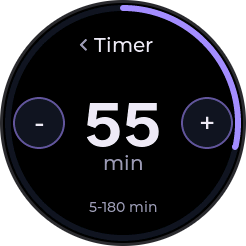
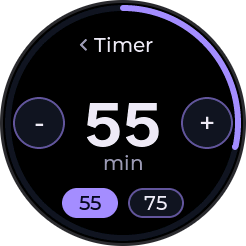
feat: timer keeps running across new games, 55/75 presets (#14)
## What and why

Two timer requests from players:

- **New game no longer resets the timer.** Competitive rounds are
best-of-three over 55 minutes, so games two and three should run on the
same clock. Reset in the Timer menu starts the next round's timer.
- **55 and 75 minute presets.** The timer length dial shows two pills,
**55** and **75**, in place of the "5-180 min" range line. Tapping one
sets that length; the matching pill is filled violet. The − / + buttons
still step by 5. Pills are built into the shared dial
(`ui_dial_t.presets`), so brightness and auto-off are unchanged.

## Checklist

- [x] The PR title is a Conventional Commit (`feat: ...`, `fix: ...`,
`docs: ...`)
- [x] `tools/test.sh` passes (unit and flash tool tests; gcovr not
installed locally, CI runs coverage)
- [x] Screenshots regenerated with `tools/screenshots.sh` (only
`timer-set.png` changed)
- [x] Tested on a device, or I explain why not below
- [x] Docs updated (README, user guide, install guide) if behavior
changed
- [x] No code, binaries or assets from the device's factory firmware

## Testing notes

- Firmware built with ESP-IDF 6.1 and flashed to our puck: timer keeps
counting through New game, preset pills set 55/75 and highlight, length
change while running behaves as before.
- The `timer-set` screenshot scene now taps both pills and checks the
length, then checks a new game leaves the timer's elapsed time
unchanged.

🤖 Generated with [Claude Code](https://claude.com/claude-code)

Changed region(s): [[0.2276, 0.7398, 0.7683, 0.9106]]

diff --git a/main/ui_dial.c b/main/ui_dial.c
@@ -2,7 +2,8 @@
 // buttons, with its title above, a unit line and range line below, and a
 // progress arc around the rim. Holding a button repeats. Tapping the title
 // (which has a back chevron) or the value, or pressing power, closes it. Used for the timer length, brightness and
-// auto-off; each supplies its own read, step and close functions.
+// auto-off; each supplies its own read, step and close functions. A dial can
+// show preset pills in place of the range line (the timer's 55 and 75).
 #include "ui_internal.h"
 
 #include "ui_theme.h"
@@ -23,6 +24,11 @@ LV_FONT_DECLARE(puck_font_dial_64)
 #define ARC_SIZE          236    // rim arc: radius 118, 6 px wide (inner edge 112)
 #define ARC_WIDTH         6
 #define ARC_SCALE         1000   // arc values are permille
+#define PRESET_DY         80     // pill row center
+#define PRESET_W          56     // two pills and the gap stay inside the arc:
+#define PRESET_H          30     //   outer end cap reaches 107 of the arc's 112
+#define PRESET_GAP        10
+#define PRESET_TOUCH_PAD  8      // extra touch area around each pill
 
 static lv_obj_t *s_panel;
 static lv_obj_t *s_value;
@@ -32,6 +38,7 @@ static lv_obj_t *s_down;
 static lv_obj_t *s_up;
 static const ui_dial_t *s_dial;
 static bool s_enabled[2];      // [0] "-", [1] "+"; false at that end of the range
+static lv_obj_t *s_presets[UI_DIAL_MAX_PRESETS];
 
 // A button at the end of its range is dimmed and ignores taps. (Not
 // LV_STATE_DISABLED: the theme's grey filter would replace this look.)
@@ -43,10 +50,21 @@ static void set_button_enabled(lv_obj_t *btn, int index, bool enabled)
     lv_obj_set_style_text_color(btn, enabled ? UI_COLOR_BONE : UI_COLOR_LINE_STRONG, 0);
 }
 
+// The pill matching the value is filled violet; the others are outlined.
+static void set_preset_selected(lv_obj_t *pill, bool selected)
+{
+    lv_obj_set_style_bg_color(pill, selected ? UI_COLOR_VIOLET : UI_COLOR_PANEL, 0);
+    lv_obj_set_style_border_color(pill, selected ? UI_COLOR_VIOLET : UI_COLOR_VIOLET_LINE, 0);
+    lv_obj_set_style_text_color(pill, selected ? UI_COLOR_VIOLET_INK : UI_COLOR_BONE, 0);
+}
+
 static void show(void)
 {
-    ui_dial_state_t state = { 0 };
+    ui_dial_state_t state = { .preset = -1 };
     s_dial->read(&state);
+    for (uint8_t i = 0; i < s_dial->preset_count; i++) {
+        set_preset_selected(s_presets[i], state.preset == (int8_t)i);
+    }
     lv_label_set_text(s_value, state.value);
     lv_label_set_text(s_unit, state.unit);
     lv_arc_set_value(s_arc, state.permille > ARC_SCALE ? ARC_SCALE : state.permille);
@@ -81,6 +99,34 @@ static void step_event(lv_event_t *e)
     }
     s_dial->step(dir);
     show();
+}
+
+static void preset_event(lv_event_t *e)
+{
+    s_dial->apply_preset((uint8_t)(intptr_t)lv_event_get_user_data(e));
+    show();
+}
+
+// The pill row near the bottom, centered.
+static void add_presets(const ui_dial_t *dial)
+{
+    const int count = dial->preset_count;
+    const int row_w = count * PRESET_W + (count - 1) * PRESET_GAP;
+    for (int i = 0; i < count; i++) {
+        lv_obj_t *pill = lv_button_create(s_panel);
+        lv_obj_set_size(pill, PRESET_W, PRESET_H);
+        lv_obj_align(pill, LV_ALIGN_CENTER,
+                     -row_w / 2 + PRESET_W / 2 + i * (PRESET_W + PRESET_GAP), PRESET_DY);
+        lv_obj_set_style_radius(pill, LV_RADIUS_CIRCLE, 0);
+        lv_obj_set_style_border_width(pill, BUTTON_BORDER, 0);
+        lv_obj_set_style_border_opa(pill, LV_OPA_COVER, 0);
+        lv_obj_set_style_shadow_width(pill, 0, 0);
+        lv_obj_set_style_pad_all(pill, 0, 0);
+        lv_obj_set_ext_click_area(pill, PRESET_TOUCH_PAD);
+        lv_obj_add_event_cb(pill, preset_event, LV_EVENT_CLICKED, (void *)(intptr_t)i);
+        lv_obj_center(ui_add_label(pill, &lv_font_montserrat_20, dial->presets[i]));
+        s_presets[i] = pill;
+    }
 }
 
 static lv_obj_t *add_step_button(int direction, const char *symbol)
@@ -160,9 +206,13 @@ void ui_dial_open(const ui_dial_t *dial)
     lv_obj_set_style_text_color(s_unit, UI_COLOR_MUTED, 0);
     lv_obj_align(s_unit, LV_ALIGN_CENTER, 0, UNIT_DY);
 
-    lv_obj_t *range = ui_add_label(s_panel, &lv_font_montserrat_14, dial->range);
-    lv_obj_set_style_text_color(range, UI_COLOR_MUTED, 0);
-    lv_obj_align(range, LV_ALIGN_CENTER, 0, RANGE_DY);
+    if (dial->preset_count) {
+        add_presets(dial);
+    } else {
+        lv_obj_t *range = ui_add_label(s_panel, &lv_font_montserrat_14, dial->range);
+        lv_obj_set_style_text_color(range, UI_COLOR_MUTED, 0);
+        lv_obj_align(range, LV_ALIGN_CENTER, 0, RANGE_DY);
+    }
 
     show();
 }

diff --git a/main/ui_timer_set.c b/main/ui_timer_set.c
@@ -7,6 +7,10 @@
 #include "counter.h"
 #include "puck_settings.h"
 
+// One-tap lengths: 55 for a best-of-three round, 75 for a longer round.
+static const uint8_t PRESET_MINUTES[] = { 55, 75 };
+_Static_assert(sizeof(PRESET_MINUTES) <= UI_DIAL_MAX_PRESETS, "too many timer presets");
+
 static void read(ui_dial_state_t *state)
 {
     const uint8_t minutes = counter_settings()->timer_minutes;
@@ -16,14 +20,30 @@ static void read(ui_dial_state_t *state)
                                  / (PUCK_TIMER_MAX_MINUTES - PUCK_TIMER_MIN_MINUTES));
     state->at_min = minutes <= PUCK_TIMER_MIN_MINUTES;
     state->at_max = minutes >= PUCK_TIMER_MAX_MINUTES;
+    state->preset = -1;
+    for (size_t i = 0; i < sizeof(PRESET_MINUTES); i++) {
+        if (minutes == PRESET_MINUTES[i]) {
+            state->preset = (int8_t)i;
+        }
+    }
+}
+
+static void set_minutes(uint8_t minutes)
+{
+    puck_settings_t copy = *counter_settings();
+    copy.timer_minutes = minutes;
+    counter_set_settings(&copy, lv_tick_get());
 }
 
 // Applied right away (this also updates the running timer's duration).
 static void step(int dir)
 {
-    puck_settings_t copy = *counter_settings();
-    copy.timer_minutes = puck_settings_step_timer(copy.timer_minutes, dir);
-    counter_set_settings(&copy, lv_tick_get());
+    set_minutes(puck_settings_step_timer(counter_settings()->timer_minutes, dir));
+}
+
+static void apply_preset(uint8_t index)
+{
+    set_minutes(PRESET_MINUTES[index]);
 }
 
 static void closed(void)
@@ -31,12 +51,11 @@ static void closed(void)
     ui_counter_refresh(false, lv_tick_get());
 }
 
-#define STR_(x) #x
-#define STR(x)  STR_(x)
-
 static const ui_dial_t TIMER_DIAL = {
     .title = "Timer",
-    .range = STR(PUCK_TIMER_MIN_MINUTES) "-" STR(PUCK_TIMER_MAX_MINUTES) " min",
+    .presets = { "55", "75" },
+    .preset_count = sizeof(PRESET_MINUTES),
+    .apply_preset = apply_preset,
     .read = read,
     .step = step,
     .closed = closed,

diff --git a/tools/screenshots/scenes.c b/tools/screenshots/scenes.c
@@ -115,6 +115,9 @@ static void open_menu(void)
 #define Q_TOP_RIGHT    180, 60
 #define Q_BOTTOM_LEFT  60, 180
 #define Q_BOTTOM_RIGHT 180, 180
+// The timer dial's preset pills.
+#define PRESET_55      87, 200
+#define PRESET_75      153, 200
 // Halves of the two-zone Custom ring.
 #define H_TOP          CENTER, 40
 #define H_BOTTOM       CENTER, 200
@@ -284,6 +287,16 @@ static void scene_timer_set(void)
     touch_tap(Q_TOP_RIGHT, 300);
     touch_tap(Q_BOTTOM_RIGHT, 300);
     render_save("timer-set");
+
+    // The preset pills set the length; a new game leaves the timer alone.
+    touch_tap(PRESET_75, 300);
+    check(counter_settings()->timer_minutes == 75, "75 preset");
+    touch_tap(PRESET_55, 300);
+    check(counter_settings()->timer_minutes == 55, "55 preset");
+    const uint32_t elapsed = puck_timer_elapsed_ms(counter_timer(), render_now());
+    counter_new_game(1, render_now());
+    check(elapsed > 0 && puck_timer_elapsed_ms(counter_timer(), render_now()) == elapsed,
+          "new game keeps the timer");
 }
 
 static void scene_history(void)

diff --git a/main/ui_internal.h b/main/ui_internal.h
@@ -39,10 +39,15 @@ typedef struct {
     uint16_t permille;   // rim arc fill, 0-1000
     bool at_min;         // "-" dimmed and ignored
     bool at_max;         // "+" dimmed and ignored
+    int8_t preset;       // index of the preset pill matching the value, or -1
 } ui_dial_state_t;
+#define UI_DIAL_MAX_PRESETS 2
 typedef struct {
     const char *title;
-    const char *range;               // the range line near the bottom
+    const char *range;               // the range line near the bottom (no presets)
+    const char *presets[UI_DIAL_MAX_PRESETS]; // pill labels in place of the range line;
+    uint8_t preset_count;            //   0 shows the range line instead
+    void (*apply_preset)(uint8_t index);    // a pill was tapped
     void (*read)(ui_dial_state_t *state);   // the current value
     void (*step)(int dir);           // apply one step down (-1) or up (+1)
     void (*closed)(void);            // after closing: where to go back to

diff --git a/main/counter.h b/main/counter.h
@@ -22,8 +22,8 @@ const puck_game_t *counter_game(void);
 // clamping) is recorded in the history.
 int16_t counter_adjust(uint8_t player, int16_t delta, uint32_t now_ms);
 
-// Start a new game at 0: clears the history and resets the timer to the
-// duration from the settings.
+// Start a new game at 0: clears the history. The timer is left as it is (a
+// round of several games runs on one clock); reset it from the Timer menu.
 void counter_new_game(uint8_t player_count, uint32_t now_ms);
 
 const puck_history_t *counter_history(void);

diff --git a/main/counter.c b/main/counter.c
@@ -124,9 +124,8 @@ void counter_new_game(uint8_t player_count, uint32_t now_ms)
 {
     if (puck_game_new(&s_game, player_count, STARTING_VALUE)) {
         puck_history_clear(&s_history);
-        puck_timer_init(&s_timer, timer_duration_ms());
-        sync_timer_flag();
-        note_change(true, true, true, now_ms);
+        // The timer is left alone: a best-of-three round runs on one clock.
+        note_change(true, true, false, now_ms);
     }
 }
 

diff --git a/docs/user-guide.md b/docs/user-guide.md
@@ -145,8 +145,9 @@ In these rings the center says **Back** and takes you to the main menu.
 | **2 players** | bottom right | Start a two player game. |
 
 The game you are playing now is marked "playing now". Every new game sets all
-numbers back to 0, clears the history and resets the timer, and the menu
-closes.
+numbers back to 0 and clears the history, and the menu closes. The timer
+**keeps going**, so a best-of-three round plays out on one clock. Use **Reset**
+in the Timer menu to start the next round's timer.
 
 **P2 faces** decides how player 2's half of the screen is turned:
 
@@ -179,7 +180,12 @@ Start, Pause, Reset and Timer on/off close the menu.
 with the number in the middle and a round **-** and **+** button on each side.
 Tap a button to change the length by 5 minutes. Hold it to keep going. The
 length can be anywhere from 5 to 180 minutes. The ring around the edge fills up
-as the length grows, and a button is dimmed when you reach that end. **Tap the
+as the length grows, and a button is dimmed when you reach that end.
+
+Below the number are two shortcuts, **55** and **75**. Tap one to set that
+length straight away. The one that matches the current length is filled in.
+
+**Tap the
 number or the title** (it has a small **<** in front of it), or press the power
 button, to go back to the counter. This is the
 only place to set the length.
@@ -221,8 +227,10 @@ and on the line in the middle in a two player game.
 - If you turn the puck off, the timer comes back **paused** with the time it
   had when it was saved. It does not count while the puck is off.
 - If you change the timer length, the remaining time changes with it.
-- A new game resets the timer. Turn the timer off in the Timer menu if you do
-  not want it on screen.
+- A new game does **not** reset the timer: games two and three of a
+  best-of-three round run on the same clock. Reset it from the Timer menu when
+  the round is over. Turn the timer off in the Timer menu if you do not want it
+  on screen.
 
 ## History
 
